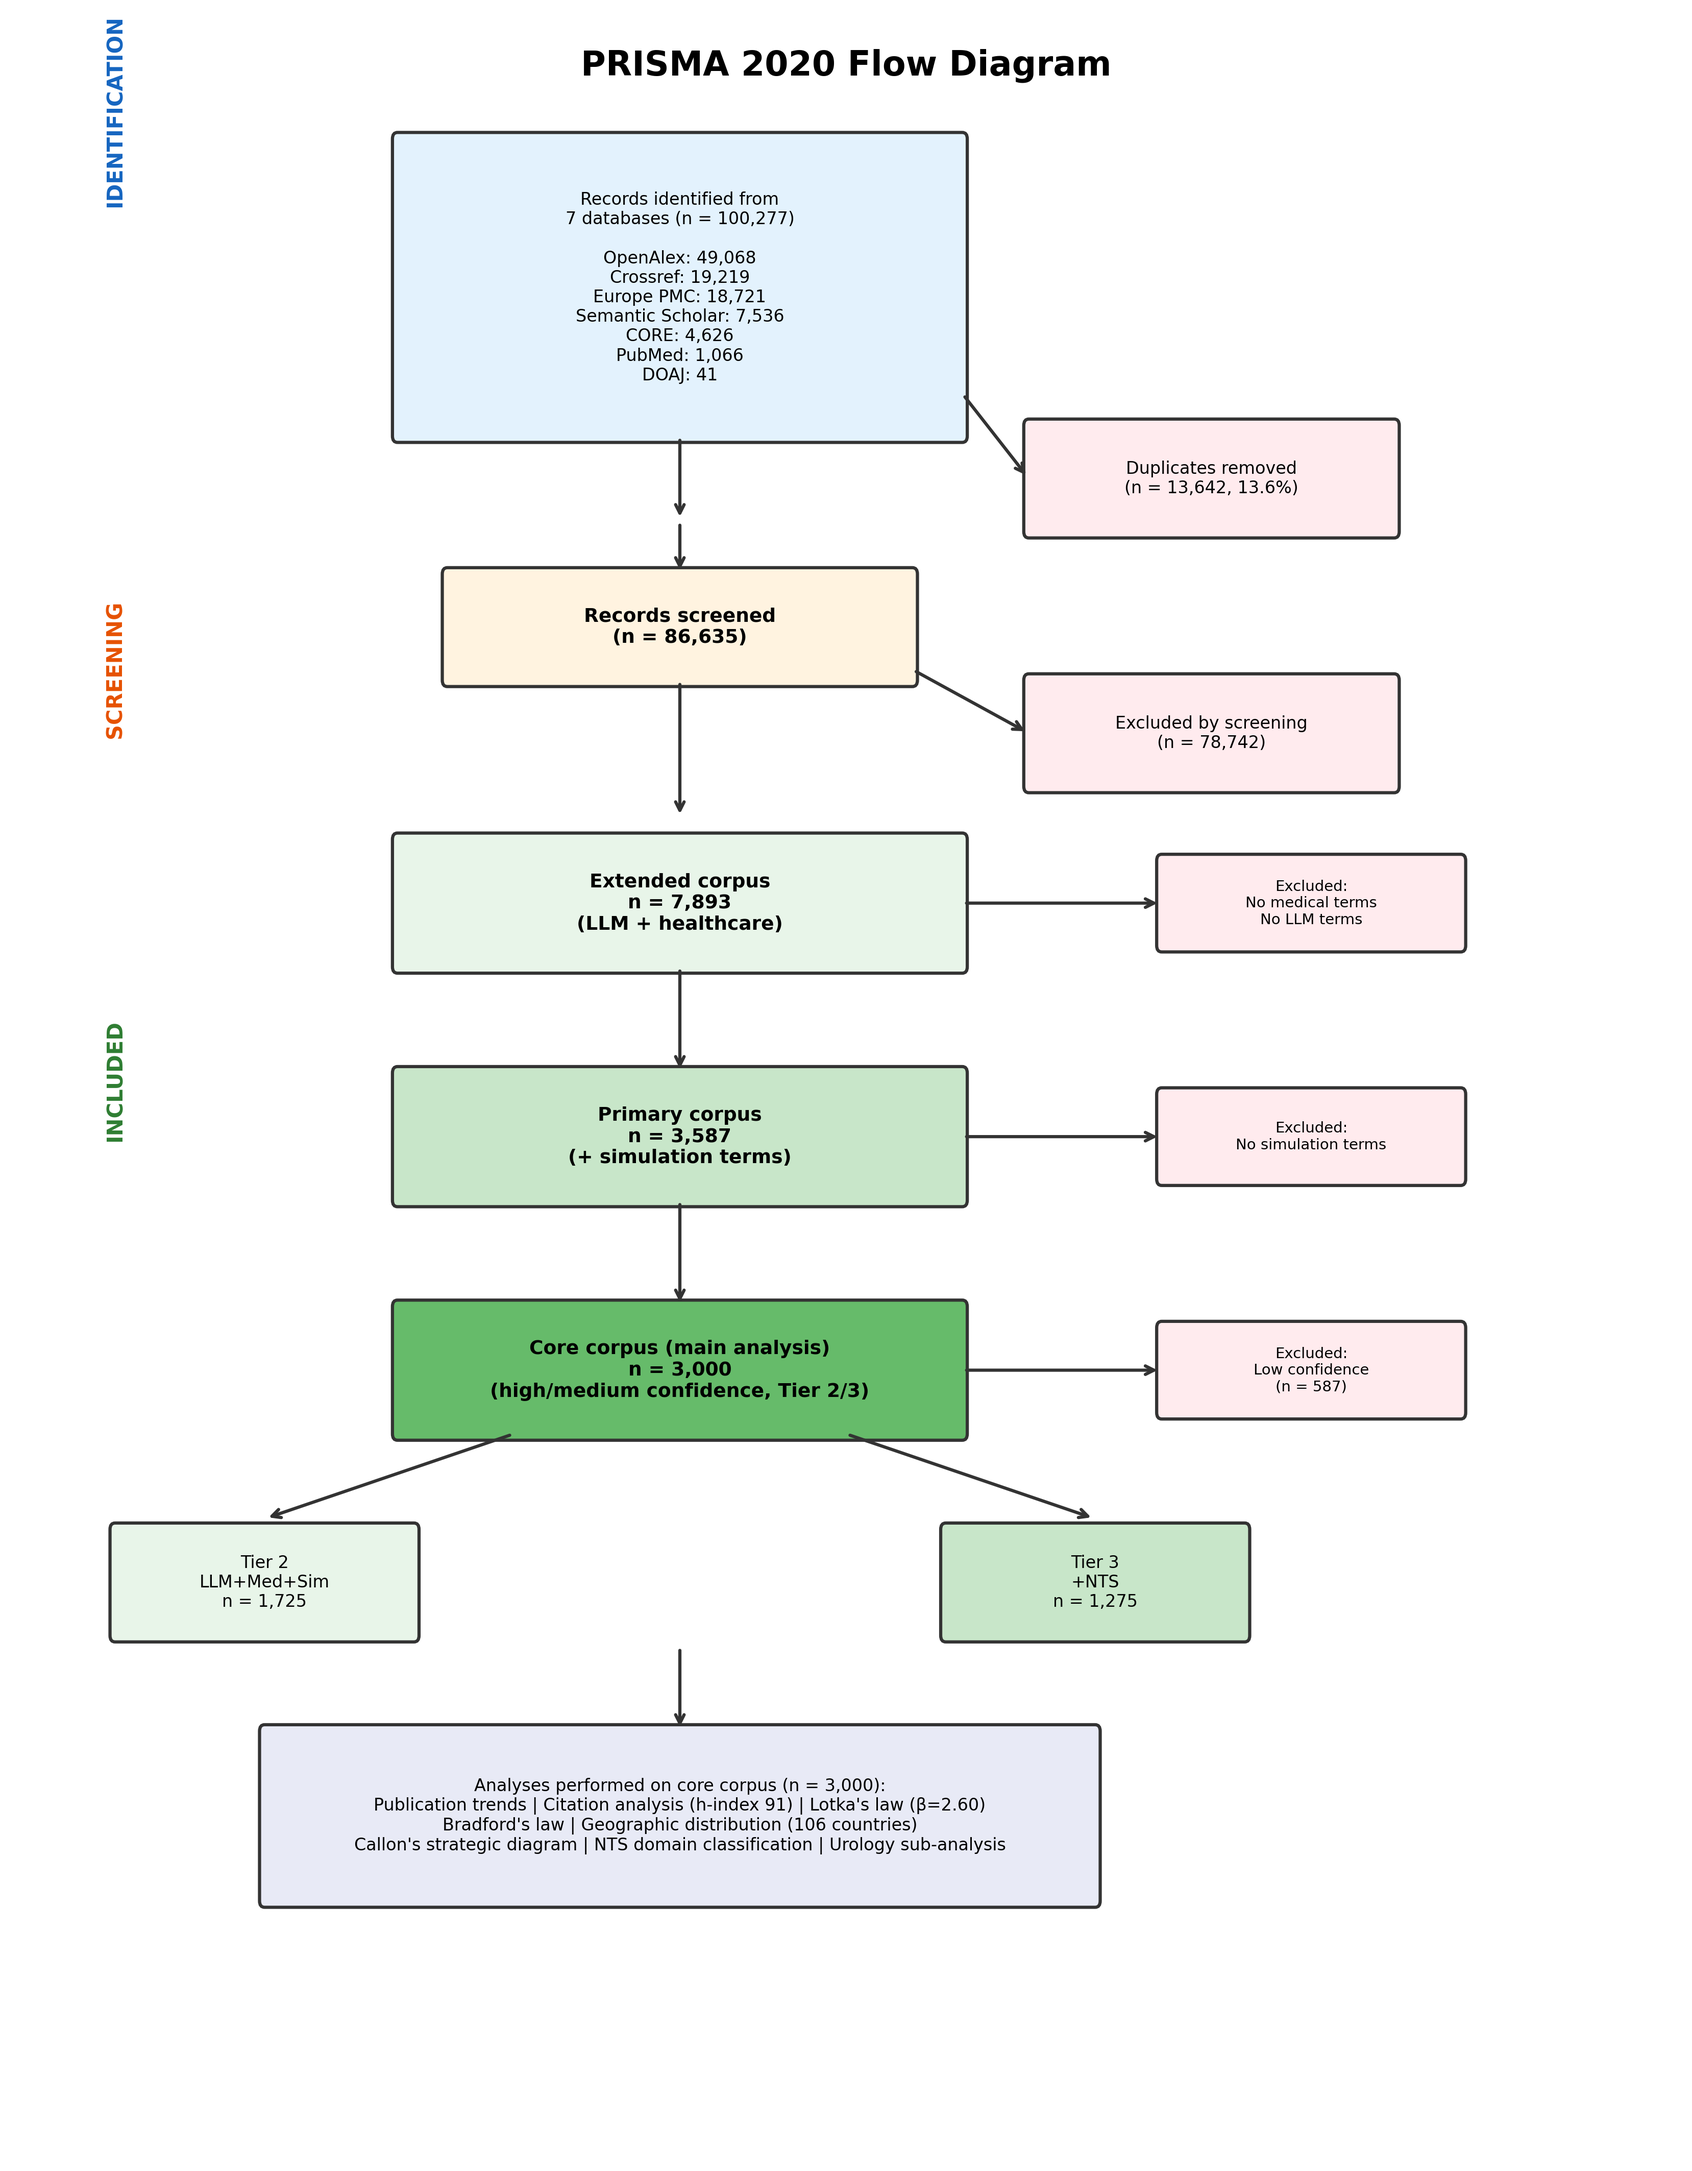
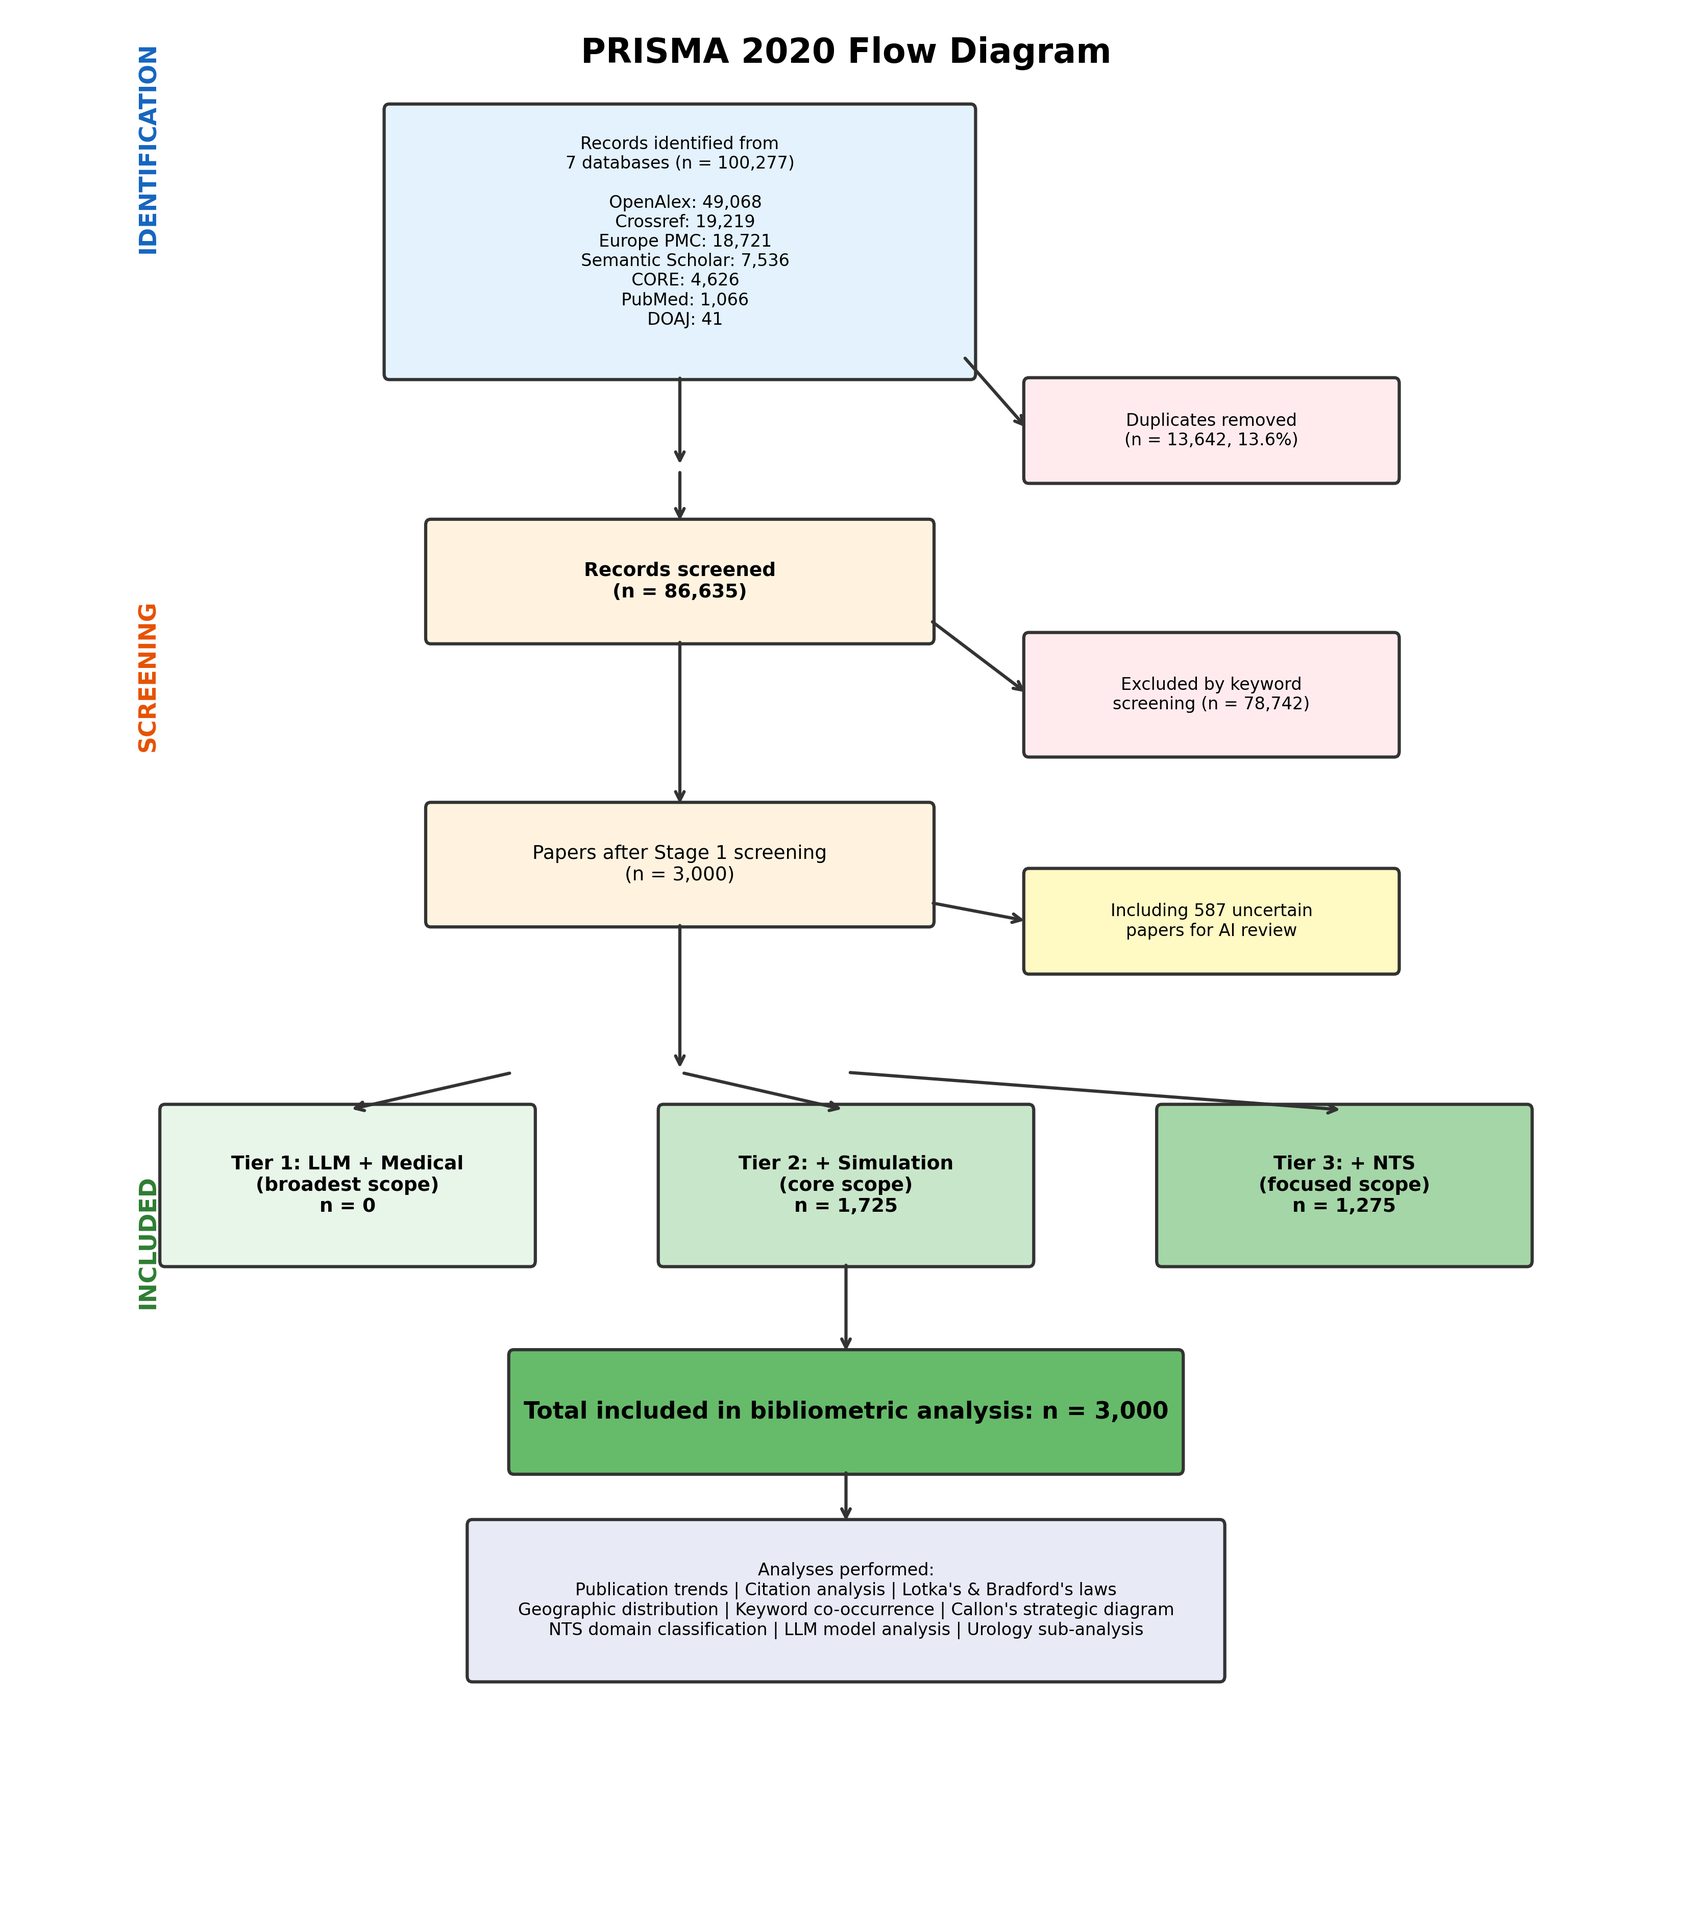
Regenerate all 32 figures from core dataset - zero stale data
User correctly questioned whether figures used old data.
Found 8 figures from earlier runs (Mar 22 23:25).
Regenerated author, journal, Bradford, Lotka, PRISMA figures
from core_dataset.json (3,000 papers).

All 32 figures now timestamped Mar 23 (today).
Manuscript verified: "7,893" references are correct (extended corpus
in three-level funnel description, not stale data).

diff --git a/03_analysis/tables/journal_summary_20260323_031841.md b/03_analysis/tables/journal_summary_20260323_031841.md
@@ -1,0 +1,94 @@
+# Journal / Source Analysis Summary
+
+| Metric | Value |
+|--------|-------|
+| Total unique journals/sources | 1299 |
+| Papers with journal data | 2337 |
+| Papers without journal data | 663 |
+| Most prolific journal | arXiv (Cornell University) (85 papers) |
+| Mean papers per journal | 1.80 |
+| Median papers per journal | 1 |
+| Single-paper journals | 1020 (78.5%) |
+
+## Publication Types
+
+| Type | Count | % |
+|------|-------|----|
+| article | 1087 | 36.2% |
+| (not specified) | 396 | 13.2% |
+| Journal Article | 292 | 9.7% |
+| preprint | 234 | 7.8% |
+| review | 229 | 7.6% |
+| JournalArticle | 127 | 4.2% |
+| journal-article | 85 | 2.8% |
+| book-chapter | 69 | 2.3% |
+| Journal Article, Review | 68 | 2.3% |
+| JournalArticle, Review | 58 | 1.9% |
+| posted-content | 45 | 1.5% |
+| other | 27 | 0.9% |
+| letter | 24 | 0.8% |
+| Journal Article, Comparative Study | 22 | 0.7% |
+| Review, JournalArticle | 16 | 0.5% |
+| Conference | 16 | 0.5% |
+| editorial | 15 | 0.5% |
+| research article | 15 | 0.5% |
+| Journal Article, Scoping Review | 14 | 0.5% |
+| proceedings-article | 14 | 0.5% |
+| Journal Article, Randomized Controlled Trial | 14 | 0.5% |
+| Journal Article, Systematic Review | 9 | 0.3% |
+| Editorial | 9 | 0.3% |
+| Journal Article, Research Support, Non-U.S. Gov't | 9 | 0.3% |
+| JournalArticle, Conference | 8 | 0.3% |
+| thesis | 6 | 0.2% |
+| dissertation | 5 | 0.2% |
+| English Abstract, Journal Article | 5 | 0.2% |
+| Book, Conference | 4 | 0.1% |
+| English Abstract, Journal Article, Review | 4 | 0.1% |
+| book | 4 | 0.1% |
+| dataset | 4 | 0.1% |
+| Review | 4 | 0.1% |
+| conference paper | 3 | 0.1% |
+| Letter | 3 | 0.1% |
+| Randomized Controlled Trial, Journal Article, Research Support, Non-U.S. Gov't | 3 | 0.1% |
+| JournalArticle, Book, Conference | 2 | 0.1% |
+| text | 2 | 0.1% |
+| research article review | 2 | 0.1% |
+| thesis text | 2 | 0.1% |
+| paratext | 2 | 0.1% |
+| Conference, Review | 2 | 0.1% |
+| Journal Article, Randomized Controlled Trial, Research Support, Non-U.S. Gov't | 2 | 0.1% |
+| Journal Article, Observational Study, Comparative Study | 2 | 0.1% |
+| Journal Article, Comparative Study, Research Support, Non-U.S. Gov't | 2 | 0.1% |
+| JournalArticle, Conference, Review | 2 | 0.1% |
+| JournalArticle, Book | 2 | 0.1% |
+| peer-review | 1 | 0.0% |
+| Study, JournalArticle | 1 | 0.0% |
+| Journal Article, Multicenter Study | 1 | 0.0% |
+| software | 1 | 0.0% |
+| review book book part | 1 | 0.0% |
+| edited-book | 1 | 0.0% |
+| Clinical Trial Protocol, Journal Article | 1 | 0.0% |
+| Observational Study, Journal Article | 1 | 0.0% |
+| Journal Article, Network Meta-Analysis, Research Support, Non-U.S. Gov't, Systematic Review | 1 | 0.0% |
+| Journal Article, Preprint | 1 | 0.0% |
+| Journal Article, Scoping Review, Review | 1 | 0.0% |
+| Journal Article, Randomized Controlled Trial, Multicenter Study | 1 | 0.0% |
+| Journal Article, Review, English Abstract | 1 | 0.0% |
+| English Abstract, Journal Article, Systematic Review | 1 | 0.0% |
+| Journal Article, Comparative Study, Randomized Controlled Trial | 1 | 0.0% |
+| Journal Article, Validation Study, Research Support, Non-U.S. Gov't | 1 | 0.0% |
+| Equivalence Trial, Journal Article | 1 | 0.0% |
+| Journal Article, Validation Study | 1 | 0.0% |
+| Review, English Abstract, Journal Article | 1 | 0.0% |
+| Case Reports, Journal Article | 1 | 0.0% |
+| Journal Article, Randomized Controlled Trial, Validation Study | 1 | 0.0% |
+| Journal Article, Observational Study | 1 | 0.0% |
+| Journal Article, Evaluation Study | 1 | 0.0% |
+| Review, Journal Article | 1 | 0.0% |
+| Preprint, Journal Article | 1 | 0.0% |
+| Journal Article, Validation Study, Comparative Study | 1 | 0.0% |
+| report | 1 | 0.0% |
+| Randomized Controlled Trial, Journal Article | 1 | 0.0% |
+| Book, JournalArticle | 1 | 0.0% |
+| Study, JournalArticle, Review | 1 | 0.0% |
+| research article text | 1 | 0.0% |

diff --git a/03_analysis/tables/bradford_zones_20260323_031841.md b/03_analysis/tables/bradford_zones_20260323_031841.md
@@ -1,0 +1,80 @@
+# Bradford's Law Zones
+
+| Zone | Description | Journals | Papers | % Papers |
+|------|-------------|----------|--------|----------|
+| Zone 1 | Core | 63 | 781 | 33.4% |
+| Zone 2 | Middle | 457 | 777 | 33.2% |
+| Zone 3 | Peripheral | 779 | 779 | 33.3% |
+
+**Total journals:** 1299
+**Total papers (with journal):** 2337
+**Bradford multiplier Z1 → Z2:** 7.25
+**Bradford multiplier Z2 → Z3:** 1.7
+
+## Zone 1 (Core) Journals
+
+| Journal | Papers |
+|---------|--------|
+| arXiv (Cornell University) | 85 |
+| Cureus | 83 |
+| arXiv.org | 35 |
+| ArXiv.org | 33 |
+| JMIR medical education | 29 |
+| BMC medical education | 29 |
+| npj Digital Medicine | 23 |
+| Journal of Clinical Medicine | 19 |
+| Applied Sciences | 19 |
+| Scientific Reports | 18 |
+| Journal of medical Internet research | 17 |
+| Preprints.org | 16 |
+| BMC Medical Education | 15 |
+| IEEE Access | 15 |
+| Open Science Framework | 14 |
+| PubMed | 12 |
+| Frontiers in Medicine | 11 |
+| Frontiers in medicine | 10 |
+| Artificial Intelligence Surgery | 10 |
+| Journal of Medical Internet Research | 10 |
+| Medical teacher | 10 |
+| Clinical Simulation in Nursing | 9 |
+| Zenodo (CERN European Organization for Nuclear Research) | 9 |
+| Advances in Medical Education and Practice | 9 |
+| Frontiers in Public Health | 9 |
+| JMIR formative research | 8 |
+| Nurse Education Today | 8 |
+| Diagnostics | 8 |
+| JMIR Medical Education | 8 |
+| Scientific reports | 8 |
+| Frontiers in Surgery | 8 |
+| Studies in health technology and informatics | 8 |
+| Journal of Dental Education | 7 |
+| Frontiers in Artificial Intelligence | 7 |
+| Nurse Education in Practice | 7 |
+| Nurse education in practice | 7 |
+| American Journal of Medical Research | 7 |
+| Nurse education today | 7 |
+| Healthcare | 7 |
+| Sensors | 7 |
+| International Journal For Multidisciplinary Research | 6 |
+| Journal of clinical medicine | 6 |
+| Information | 6 |
+| Academic medicine : journal of the Association of American Medical Colleges | 6 |
+| Nursing Education Perspectives | 6 |
+| The Clinical Teacher | 6 |
+| Journal of surgical education | 6 |
+| Frontiers in Digital Health | 6 |
+| Virtual Technologies in Medicine | 5 |
+| Medical science educator | 5 |
+| Applied and Computational Engineering | 5 |
+| Cureus Journal of Computer Science. | 5 |
+| Frontiers in Psychology | 5 |
+| JAMA network open | 5 |
+| Academic Medicine | 5 |
+| World Journal of Advanced Research and Reviews | 5 |
+| International Journal of Surgery | 5 |
+| Informatics | 5 |
+| NPJ digital medicine | 5 |
+| Nature Medicine | 5 |
+| Mesopotamian Journal of Artificial Intelligence in Healthcare | 4 |
+| Inverge Journal of Social Sciences | 4 |
+| International Medical Education | 4 |

diff --git a/03_analysis/tables/journal_top20_20260323_031841.md b/03_analysis/tables/journal_top20_20260323_031841.md
@@ -1,0 +1,24 @@
+# Top 20 Journals / Sources
+
+| Rank | Journal | Papers | % of Total |
+|------|---------|--------|------------|
+| 1 | arXiv (Cornell University) | 85 | 3.6% |
+| 2 | Cureus | 83 | 3.6% |
+| 3 | arXiv.org | 35 | 1.5% |
+| 4 | ArXiv.org | 33 | 1.4% |
+| 5 | JMIR medical education | 29 | 1.2% |
+| 6 | BMC medical education | 29 | 1.2% |
+| 7 | npj Digital Medicine | 23 | 1.0% |
+| 8 | Journal of Clinical Medicine | 19 | 0.8% |
+| 9 | Applied Sciences | 19 | 0.8% |
+| 10 | Scientific Reports | 18 | 0.8% |
+| 11 | Journal of medical Internet research | 17 | 0.7% |
+| 12 | Preprints.org | 16 | 0.7% |
+| 13 | BMC Medical Education | 15 | 0.6% |
+| 14 | IEEE Access | 15 | 0.6% |
+| 15 | Open Science Framework | 14 | 0.6% |
+| 16 | PubMed | 12 | 0.5% |
+| 17 | Frontiers in Medicine | 11 | 0.5% |
+| 18 | Frontiers in medicine | 10 | 0.4% |
+| 19 | Artificial Intelligence Surgery | 10 | 0.4% |
+| 20 | Journal of Medical Internet Research | 10 | 0.4% |

diff --git a/03_analysis/tables/author_summary_20260323_031839.md b/03_analysis/tables/author_summary_20260323_031839.md
@@ -1,0 +1,33 @@
+# Author Analysis Summary
+
+| Metric | Value |
+|--------|-------|
+| Total unique authors | 12488 |
+| Papers with author data | 2981 |
+| Collaboration index (mean authors/paper) | 5.51 |
+| Single-paper authors | 10793 (86.4%) |
+| Multi-paper authors | 1695 (13.6%) |
+| Single/multi ratio | 6.37 |
+| Lotka exponent (beta) | 2.602 |
+| Lotka R-squared | 0.955 |
+
+## Author Productivity Distribution
+
+| Papers | Authors | Cumulative % |
+|--------|---------|-------------|
+| 1 | 10793 | 86.4% |
+| 2 | 1054 | 94.9% |
+| 3 | 298 | 97.3% |
+| 4 | 107 | 98.1% |
+| 5 | 65 | 98.6% |
+| 6 | 49 | 99.0% |
+| 7 | 25 | 99.2% |
+| 8 | 17 | 99.4% |
+| 9 | 15 | 99.5% |
+| 10 | 9 | 99.6% |
+| 11 | 11 | 99.6% |
+| 12 | 9 | 99.7% |
+| 13 | 5 | 99.8% |
+| 14 | 4 | 99.8% |
+| 15 | 2 | 99.8% |
+| >15 | 25 | 100.0% |

diff --git a/03_analysis/tables/author_top20_20260323_031839.md b/03_analysis/tables/author_top20_20260323_031839.md
@@ -1,0 +1,24 @@
+# Top 20 Most Prolific Authors
+
+| Rank | Author | Papers |
+|------|--------|--------|
+| 1 | Wang, Y | 42 |
+| 2 | Li, Y | 35 |
+| 3 | Liu, Y | 29 |
+| 4 | Li, X | 29 |
+| 5 | Zhang, Y | 28 |
+| 6 | Li, J | 27 |
+| 7 | Wang, X | 25 |
+| 8 | Zhang, X | 24 |
+| 9 | Chen, Y | 23 |
+| 10 | Wang, J | 23 |
+| 11 | Wang, Z | 22 |
+| 12 | Li, Z | 21 |
+| 13 | Liu, J | 20 |
+| 14 | Zhang, Z | 19 |
+| 15 | Liu, S | 19 |
+| 16 | Li, S | 18 |
+| 17 | Wang, S | 17 |
+| 18 | Chen, X | 17 |
+| 19 | Zhang, J | 17 |
+| 20 | Zhang, L | 17 |
